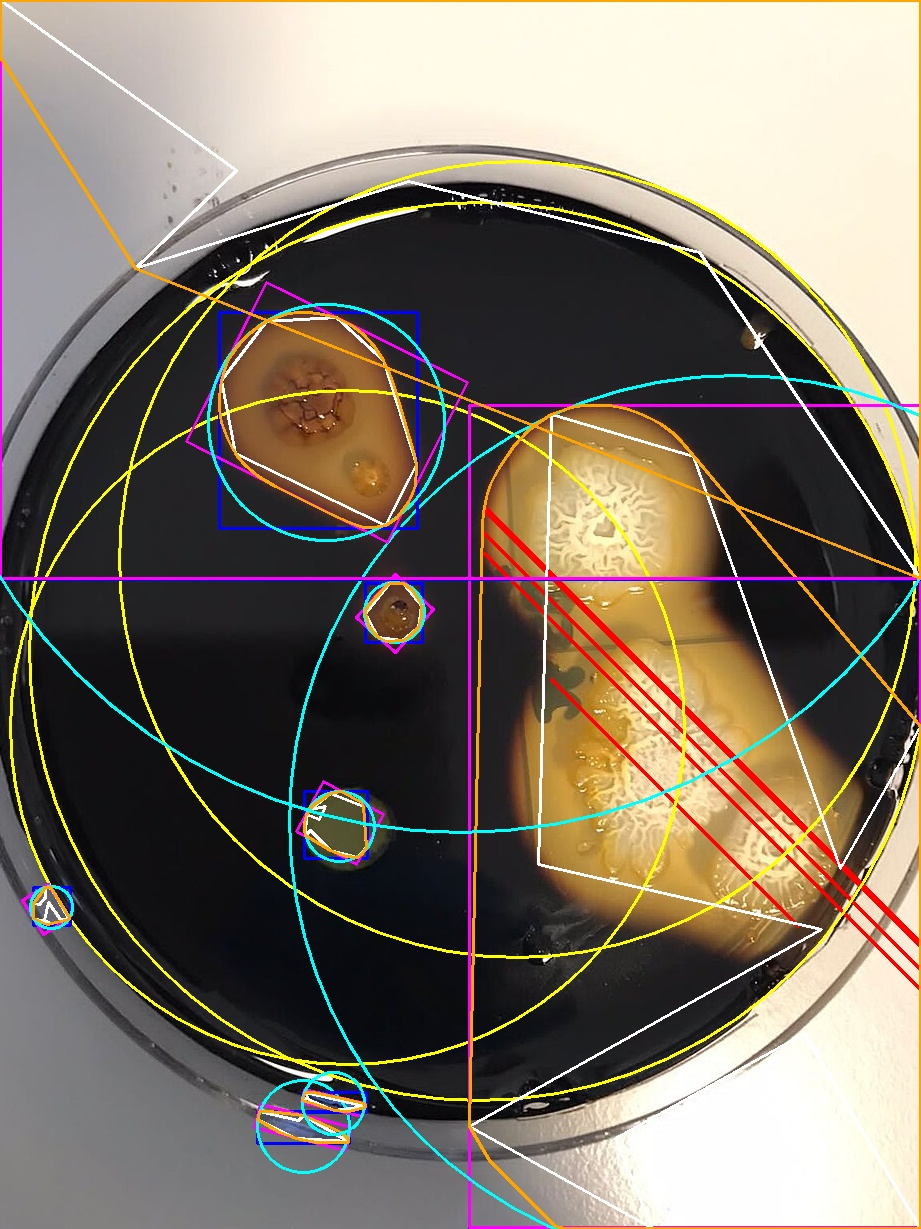
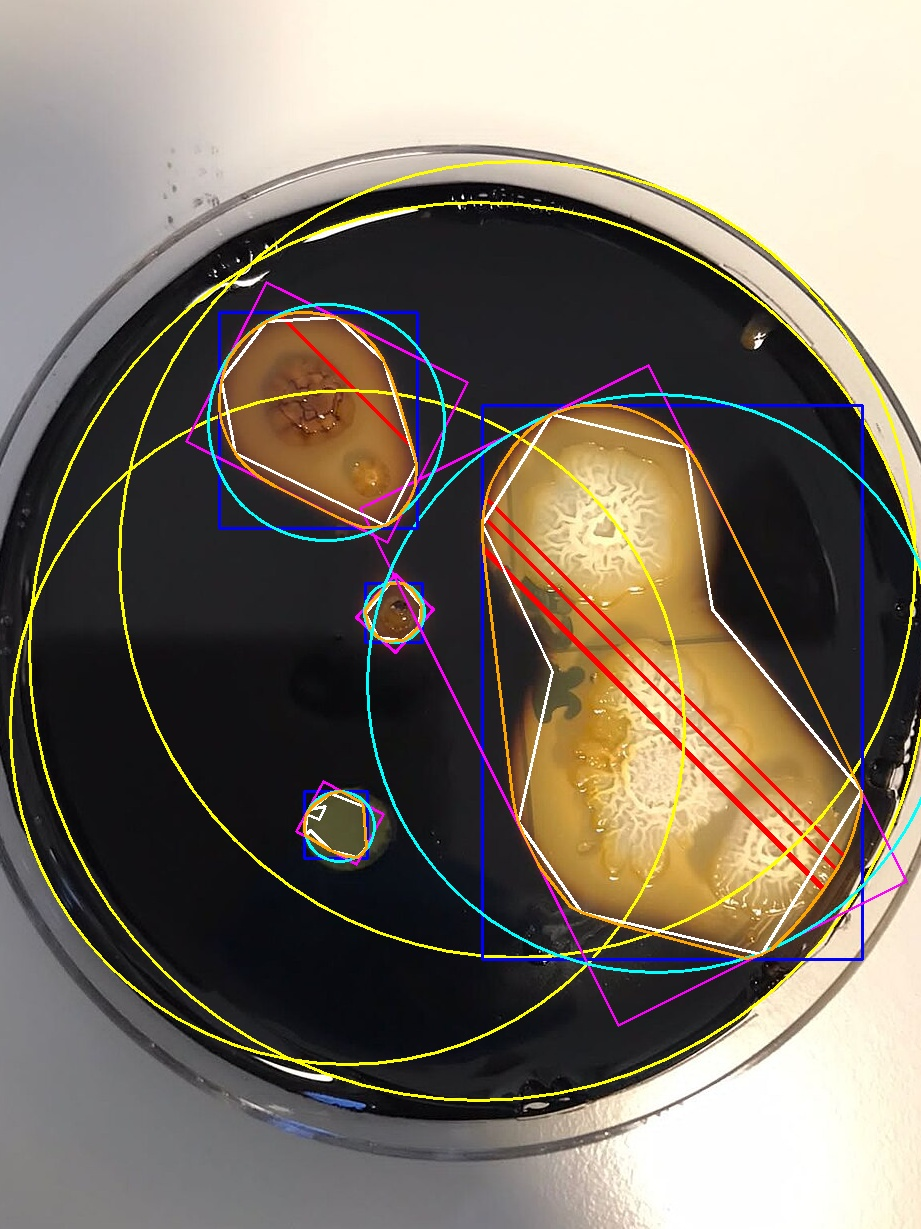
Trial 4 Colony Detection

diff --git a/main.py b/main.py
@@ -65,21 +65,27 @@ filtered = cv2.GaussianBlur(gray, (5, 5), 0)
 cv2.imwrite(os.path.join(output_dir, '5_filtered.jpg'), filtered)
 
 # ---------------------------------------------------------
-# STEP 6: Color-Based Segmentation (HSV Thresholding)
+# STEP 6: Color-Based Segmentation with Dish Boundary Mask
 # ---------------------------------------------------------
-# Define lower and upper HSV bounds for the yellowish/orange fungal growth
-# Saturation (middle value) starts at 20 to ignore grayscale/white glass glare
-lower_colony_color = np.array([0, 20, 80])
+# 1. Color Thresholding
+lower_colony_color = np.array([0, 25, 80])
 upper_colony_color = np.array([180, 255, 255])
-
-# Generate binary mask: white pixels represent colonies, black represents agar
 colony_mask = cv2.inRange(hsv, lower_colony_color, upper_colony_color)
 
-# Apply Morphological Closing to weld internal texture gaps into solid shapes
+# 2. CREATE CIRCULAR DISH MASK (Ignores all pixels outside the dish)
+dish_mask = np.zeros(gray.shape, dtype=np.uint8)
+center_x, center_y = int(width * 0.49), int(height * 0.50) # Center of the dish
+radius = int(min(width, height) * 0.45)                   # Dish radius
+cv2.circle(dish_mask, (center_x, center_y), radius, 255, -1)
+
+# 3. Apply Dish Mask to eliminate outside reflections/countertop
+colony_mask = cv2.bitwise_and(colony_mask, colony_mask, mask=dish_mask)
+
+# 4. Morphological Cleaning
 kernel = cv2.getStructuringElement(cv2.MORPH_ELLIPSE, (7, 7))
 cleaned_mask = cv2.morphologyEx(colony_mask, cv2.MORPH_CLOSE, kernel)
 
-# Save mask output to fulfill file requirement #6
+# Save output 6
 cv2.imwrite(os.path.join(output_dir, '6_canny_edges.jpg'), cleaned_mask)
 
 # ---------------------------------------------------------
